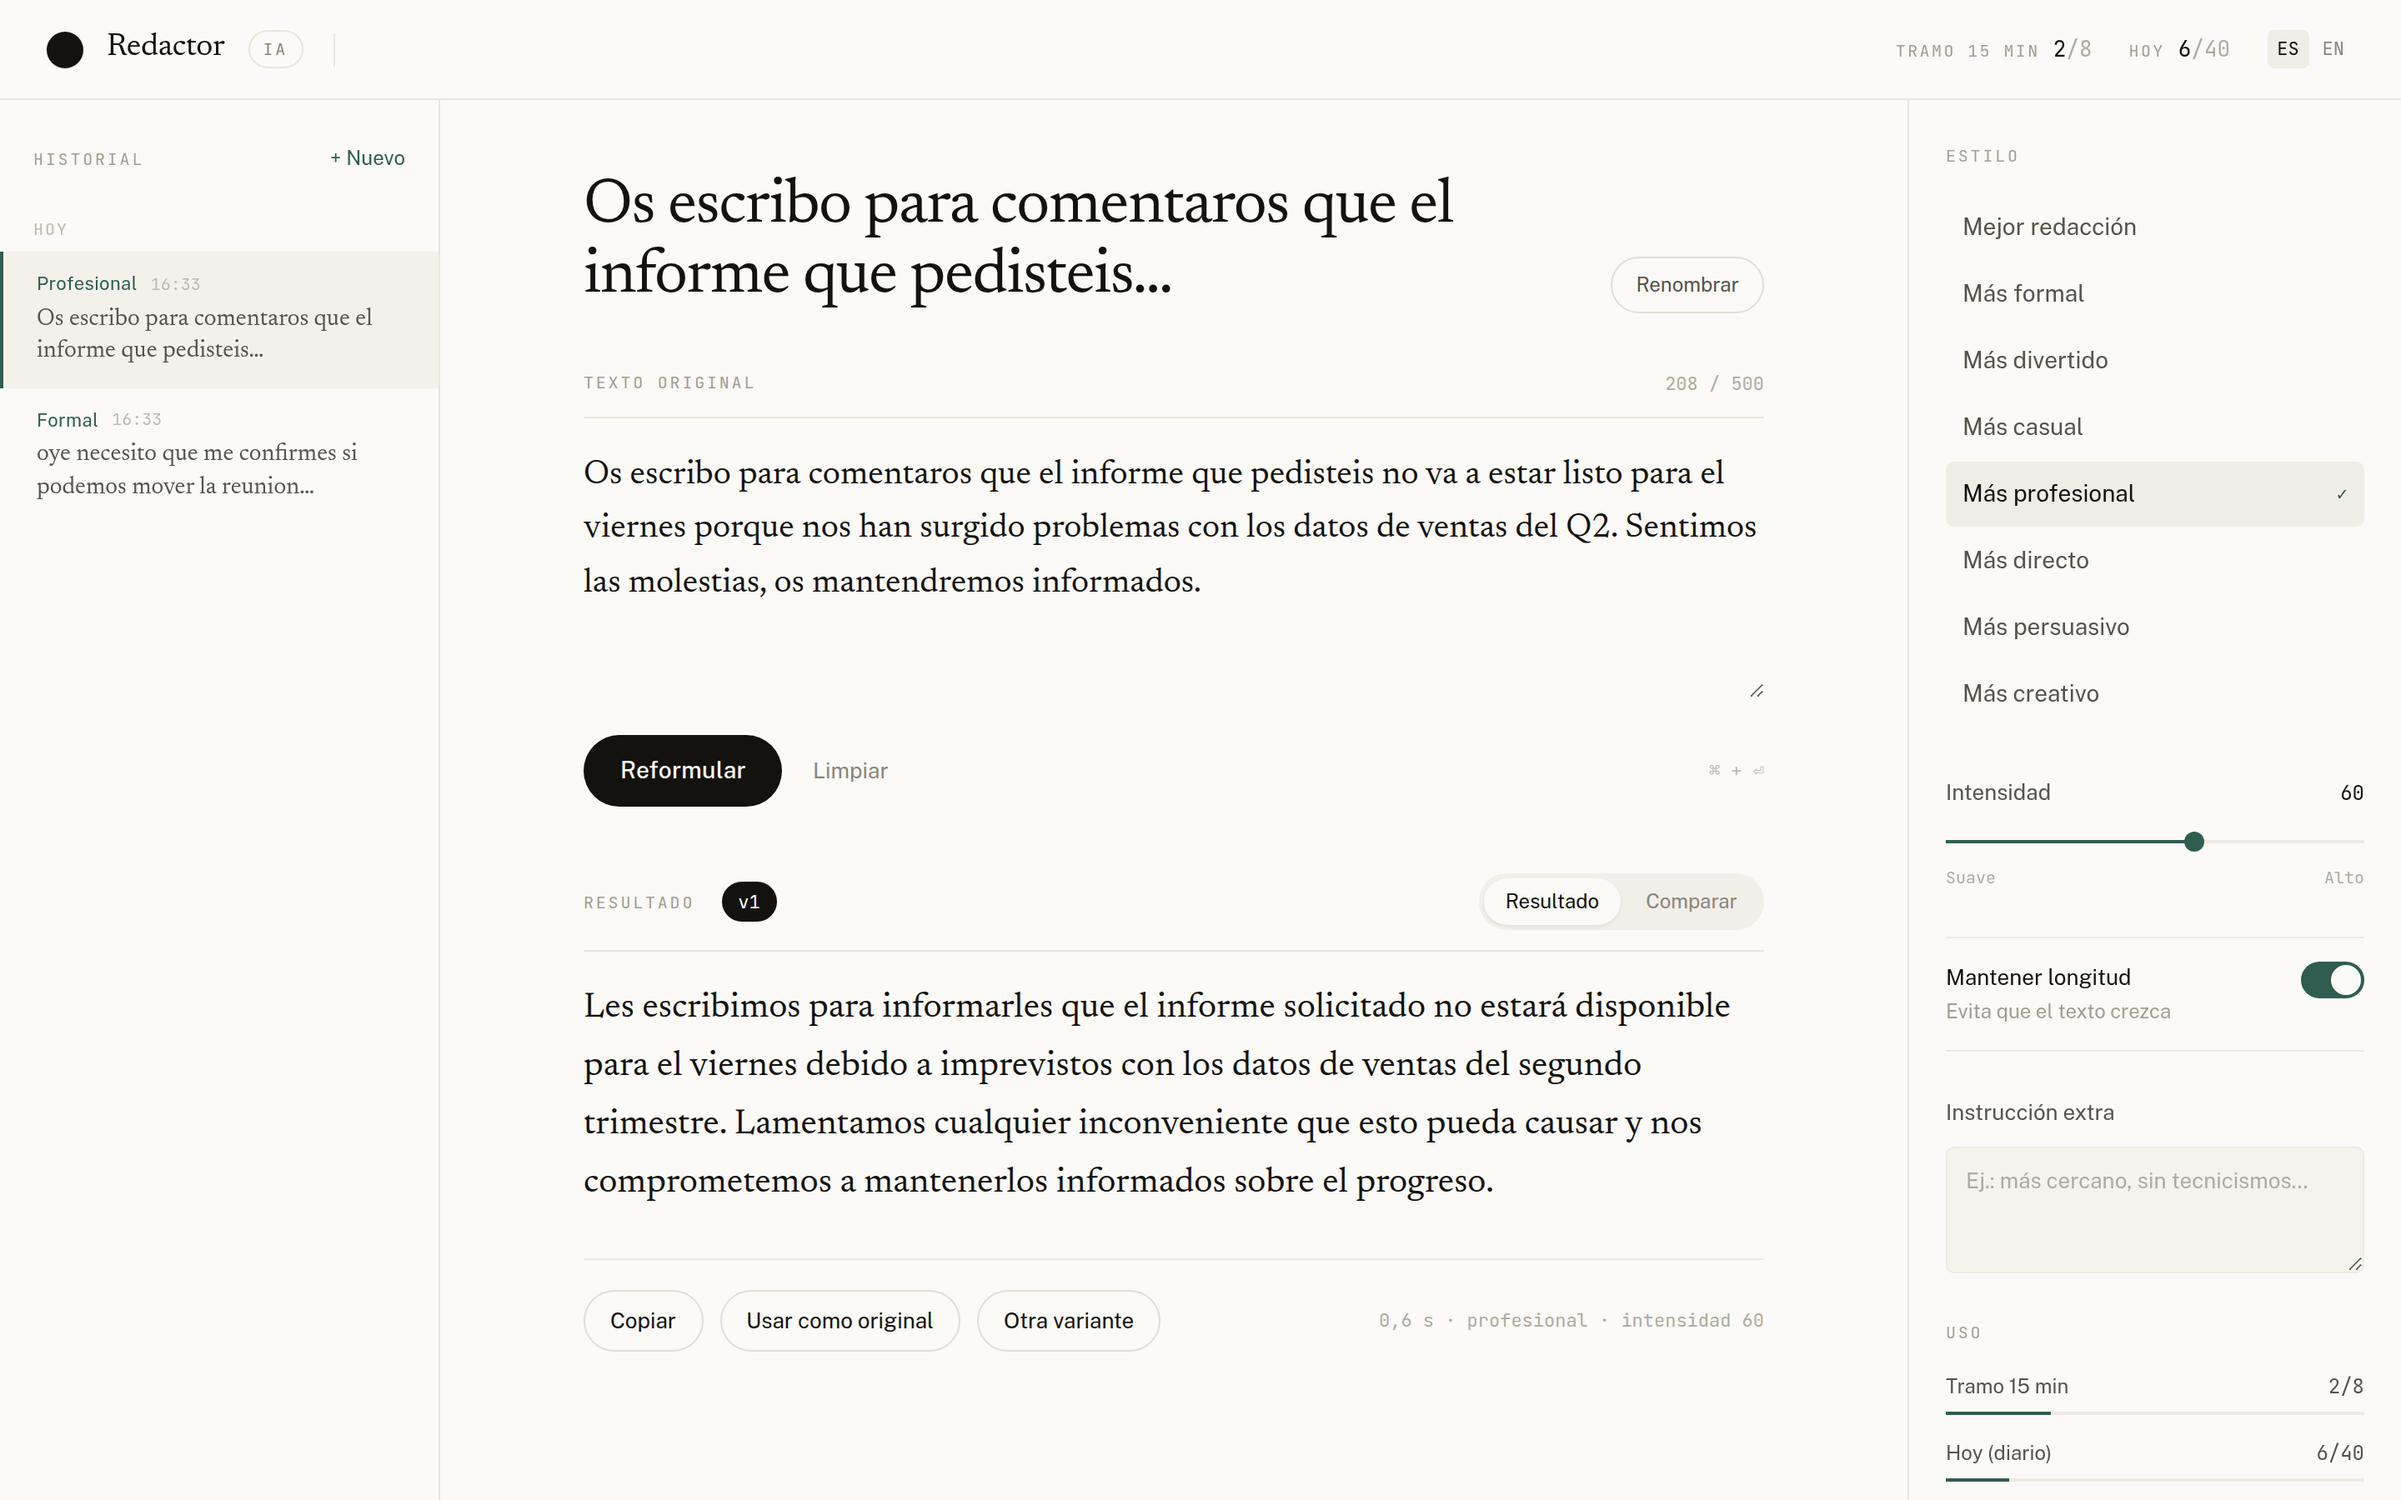
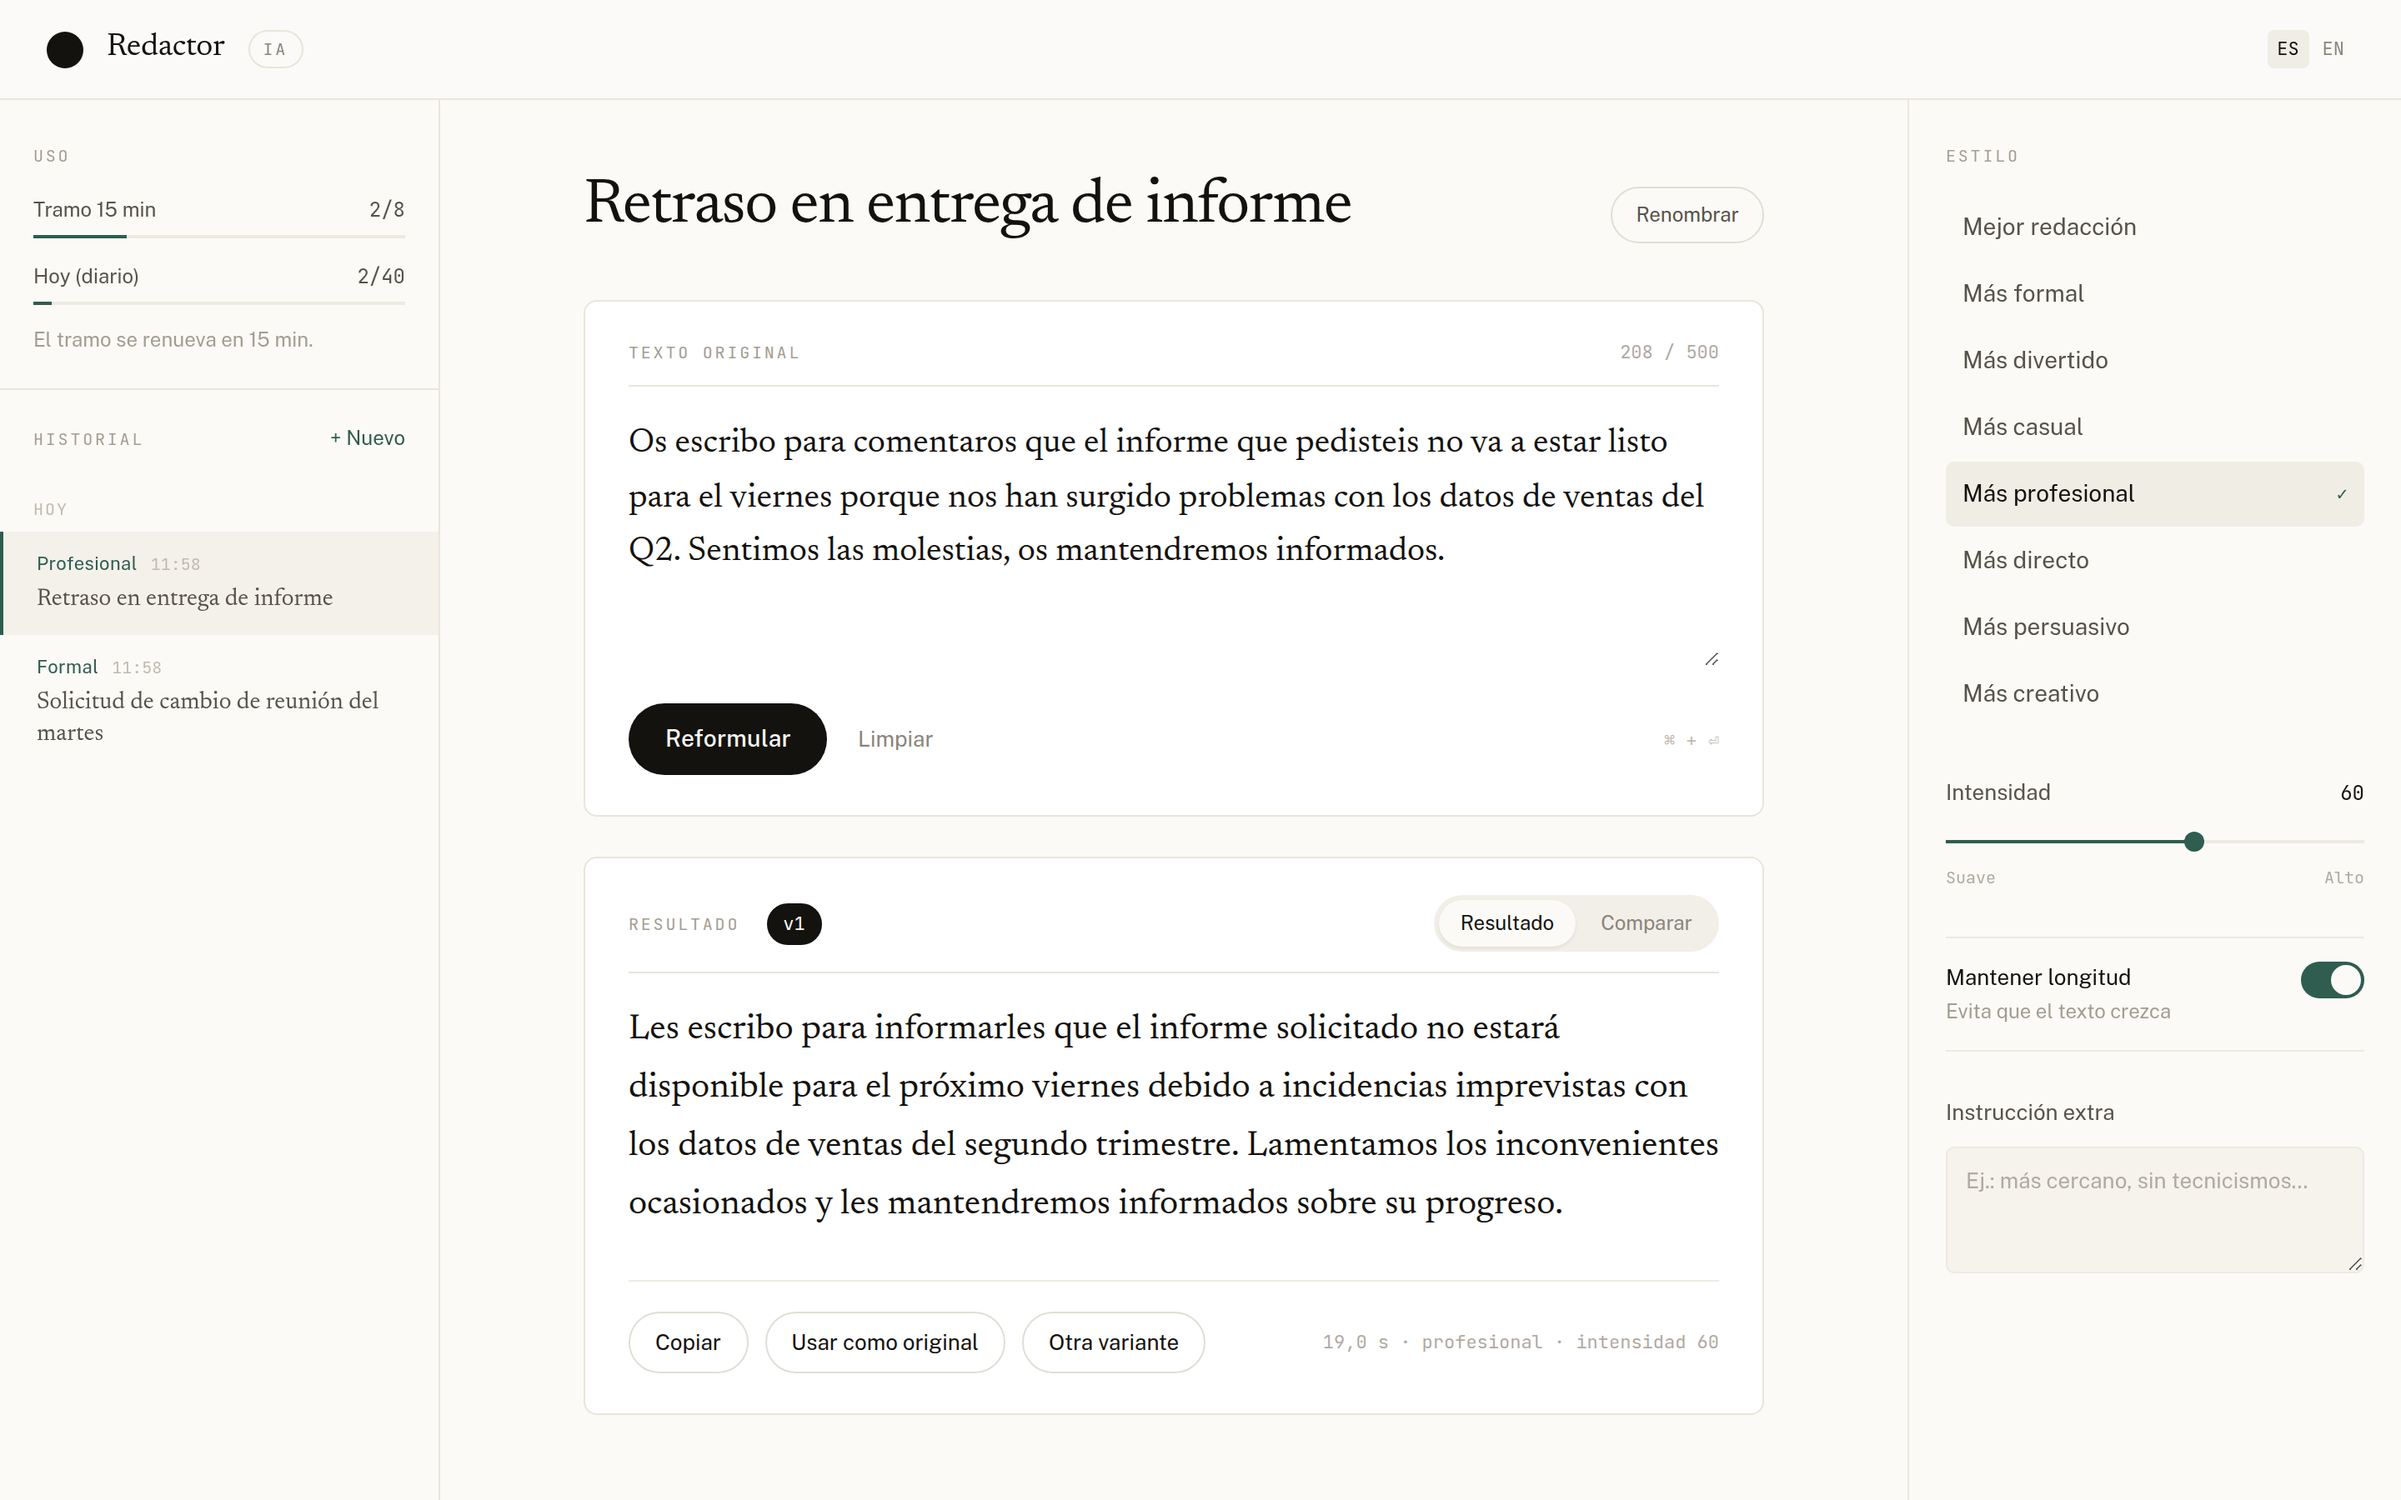
docs: actualizar la captura y documentar VITE_API_URL
La captura del README enseñaba una interfaz que ya no existe: contadores en
la barra superior, secciones planas sin tarjetas y el consumo en el raíl
derecho. Regenerada con la aplicación actual.

VITE_API_URL la lee el frontend pero no estaba documentada en ninguna
parte, así que no había forma de saber cómo apuntar a otro backend.

De paso, backend/package.json declaraba main: index.js, un fichero que no
existe.

diff --git a/README.md b/README.md
@@ -166,6 +166,13 @@ npm install --prefix backend
 npm install --prefix frontend
 ```
 
+El frontend apunta a `http://localhost:3001` por defecto. Para señalar a otro
+backend (por ejemplo en producción), define `VITE_API_URL` al construir:
+
+```bash
+VITE_API_URL=https://api.tu-dominio.com npm run build --prefix frontend
+```
+
 ### 3. Levantar el proyecto
 
 ```bash
